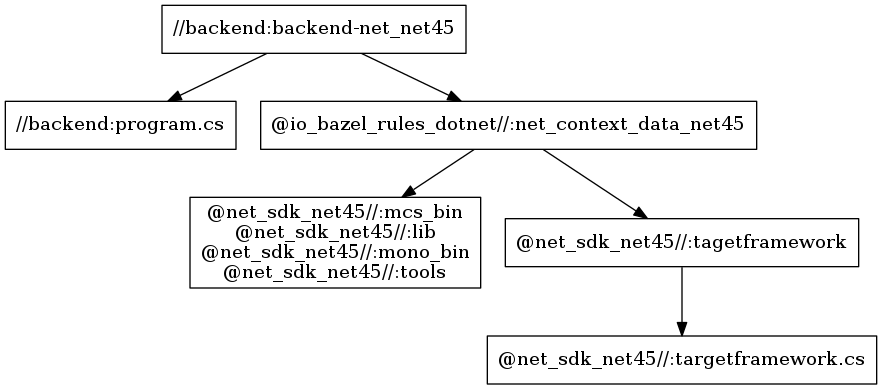
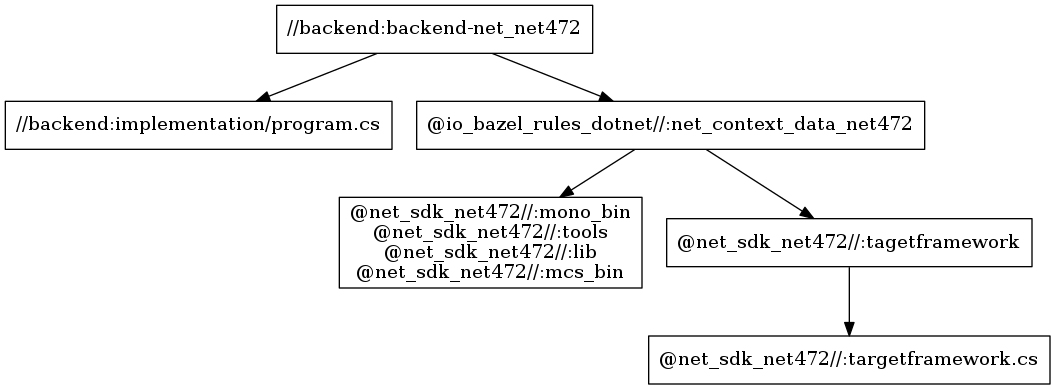
NUnit tests
This commit adds support for NUnit, unit tests.

diff --git a/backend/tests/NunitTests.cs b/backend/tests/NunitTests.cs
@@ -1,0 +1,24 @@
+using System;
+using System.Text;
+using System.Collections.Generic;
+using NUnit.Framework;
+
+[TestFixture]
+public class OnlyTest
+{
+    [Test]
+    public void IntegerEquals() 
+    {
+        System.Console.WriteLine(System.Reflection.MethodBase.GetCurrentMethod.ToString());
+        int a = 10;
+        Assert.AreEqual(10, a);
+    }
+
+    [Test]
+    public void StringEquals() 
+    {
+        System.Console.WriteLine(System.Reflection.MethodBase.GetCurrentMethod.ToString());
+        string a = "a";
+        Assert.AreEqual("a", a);
+    }
+}

diff --git a/docs/BAZEL_COMMANDS.md b/docs/BAZEL_COMMANDS.md
@@ -1,5 +1,67 @@
 # Bazel Commands
 
+## Bazel Build (compile)
+
+### Command Line Input
+
+```
+bazel build //...
+```
+
+NOTE: The `...` shown above will operate upon all files in the Bazel WORKSPACE.  For example, if the command is `build` then all compilation units will be built.  If `test` then
+all tests will be ran.
+
+### Command Line Output
+
+```
+bazel build //...
+INFO: Invocation ID: 17af9dfd-2d92-46f8-82b1-9a0f4b97fad9
+INFO: Analysed 34 targets (0 packages loaded, 0 targets configured).
+INFO: Found 34 targets...
+INFO: Elapsed time: 1.156s, Critical Path: 0.01s
+INFO: 0 processes.
+INFO: Build completed successfully, 1 total action
+```
+
+## Bazel Test
+
+### Command Line Input
+
+```
+bazel test //...
+```
+
+### Command Line Output
+
+```
+bazel test //...
+INFO: Invocation ID: 8fb43b4d-f7dd-4533-9aa3-9684c095884a
+INFO: Analysed 34 targets (0 packages loaded, 0 targets configured).
+INFO: Found 17 targets and 17 test targets...
+INFO: Elapsed time: 5.693s, Critical Path: 1.49s
+INFO: 17 processes: 17 processwrapper-sandbox.
+INFO: Build completed successfully, 18 total actions
+//backend:backend_nunit-net_net45                                        PASSED in 0.7s
+//backend:backend_nunit-net_net451                                       PASSED in 1.3s
+//backend:backend_nunit-net_net452                                       PASSED in 0.7s
+//backend:backend_nunit-net_net46                                        PASSED in 0.9s
+//backend:backend_nunit-net_net461                                       PASSED in 0.8s
+//backend:backend_nunit-net_net462                                       PASSED in 0.6s
+//backend:backend_nunit-net_net47                                        PASSED in 0.7s
+//backend:backend_nunit-net_net471                                       PASSED in 0.6s
+//backend:backend_nunit-net_net472                                       PASSED in 0.7s
+//backend:backend_nunit-net_netstandard1.0                               PASSED in 0.7s
+//backend:backend_nunit-net_netstandard1.1                               PASSED in 0.7s
+//backend:backend_nunit-net_netstandard1.2                               PASSED in 0.7s
+//backend:backend_nunit-net_netstandard1.3                               PASSED in 0.6s
+//backend:backend_nunit-net_netstandard1.4                               PASSED in 0.6s
+//backend:backend_nunit-net_netstandard1.5                               PASSED in 1.1s
+//backend:backend_nunit-net_netstandard1.6                               PASSED in 0.7s
+//backend:backend_nunit-net_netstandard2.0                               PASSED in 0.7s
+
+INFO: Build completed successfully, 18 total actions
+```
+
 ## Show All Dependencies
 
 ### Command Line Input
@@ -157,27 +219,27 @@ Now grab an example project from the above.  These start with double slashes, `/
 ### Command Line Input
 
 ```
-bazel query 'deps(//backend:backend-net_net45)' --output graph
+bazel query 'deps(//backend:backend-net_net472)' --output graph
 ```
 
 ### Sample Command Line Output
 
 ```
-bazel query 'deps(//backend:backend-net_net45)' --output graph
-INFO: Invocation ID: 083bdde3-f8b2-45d8-9c56-35db0cdfa845
+bazel query 'deps(//backend:backend-net_net472)' --output graph
+INFO: Invocation ID: c5228bff-5ba0-44c1-b599-5ff7782b9fa5
 digraph mygraph {
   node [shape=box];
-"//backend:backend-net_net45"
-"//backend:backend-net_net45" -> "//backend:program.cs"
-"//backend:backend-net_net45" -> "@io_bazel_rules_dotnet//:net_context_data_net45"
-"//backend:program.cs"
-"@io_bazel_rules_dotnet//:net_context_data_net45"
-"@io_bazel_rules_dotnet//:net_context_data_net45" -> "@net_sdk_net45//:mono_bin\n@net_sdk_net45//:mcs_bin\n@net_sdk_net45//:lib\n@net_sdk_net45//:tools"
-"@io_bazel_rules_dotnet//:net_context_data_net45" -> "@net_sdk_net45//:tagetframework"
-"@net_sdk_net45//:tagetframework"
-"@net_sdk_net45//:tagetframework" -> "@net_sdk_net45//:targetframework.cs"
-"@net_sdk_net45//:mono_bin\n@net_sdk_net45//:mcs_bin\n@net_sdk_net45//:lib\n@net_sdk_net45//:tools"
-"@net_sdk_net45//:targetframework.cs"
+"//backend:backend-net_net472"
+"//backend:backend-net_net472" -> "//backend:implementation/program.cs"
+"//backend:backend-net_net472" -> "@io_bazel_rules_dotnet//:net_context_data_net472"
+"@io_bazel_rules_dotnet//:net_context_data_net472"
+"@io_bazel_rules_dotnet//:net_context_data_net472" -> "@net_sdk_net472//:lib\n@net_sdk_net472//:mono_bin\n@net_sdk_net472//:mcs_bin\n@net_sdk_net472//:tools"
+"@io_bazel_rules_dotnet//:net_context_data_net472" -> "@net_sdk_net472//:tagetframework"
+"@net_sdk_net472//:tagetframework"
+"@net_sdk_net472//:tagetframework" -> "@net_sdk_net472//:targetframework.cs"
+"//backend:implementation/program.cs"
+"@net_sdk_net472//:targetframework.cs"
+"@net_sdk_net472//:lib\n@net_sdk_net472//:mono_bin\n@net_sdk_net472//:mcs_bin\n@net_sdk_net472//:tools"
 }
 Loading: 0 packages loaded
 ```
@@ -187,8 +249,8 @@ Loading: 0 packages loaded
 This command requires `graphviz` to be installed.  You can install this with `apt-get install -y graphviz`.  This demo uses `graphviz version 2.38.0 (20140413.2041)`.
 
 ```
-bazel query 'deps(//backend:backend-net_net45 --output graph > graph.in
-dot -Tpng < graph.in > graph.png
+bazel query 'deps(//backend:backend-net_net472)' --output graph > docs/graph.in
+dot -Tpng < docs/graph.in > docs/dependencies.png
 ```
 
 This yeilds:
